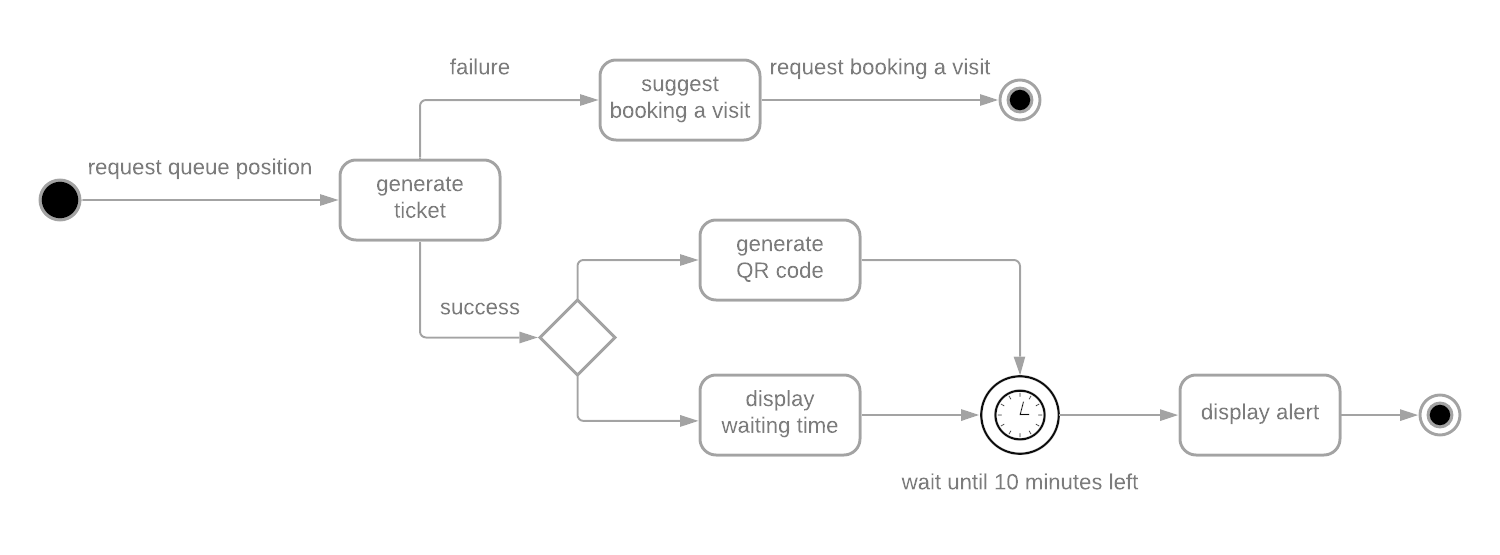
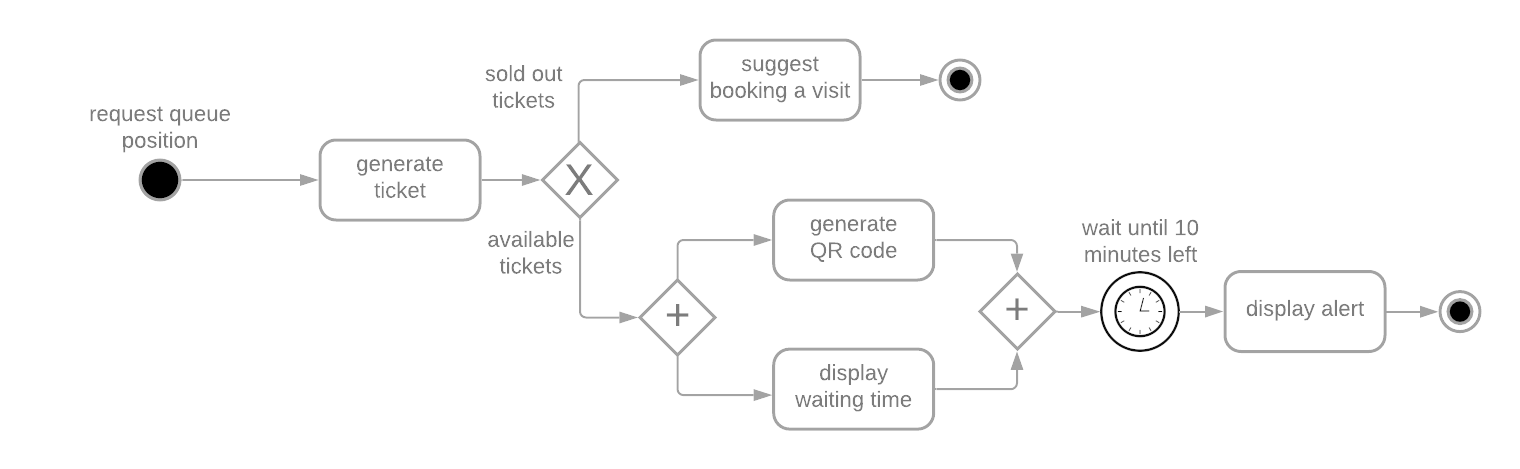
added sequence diagrams

diff --git a/RASD/rasd.tex b/RASD/rasd.tex
@@ -167,7 +167,7 @@ The main objectives of our system are the following:
     \item \textbf{Notification:} it's an alert that a certain event occurred. This alert can be a "Push Notification" on the smartphone, an SMS, an email and so on.
     \item \textbf{Push notification:} it's an automated message sent by an application to a user when the application is not running.
     \item \textbf{Actor:} user, attendant or store administrator.
-    \item \textbf{Man in the Middle:} it is a cyberattack where the attacker secretly relays and possibly alters the communications between two parties who believe that they are directly communicating with each other.
+    \item \textbf{Man in the Middle:} it is a cyber attack where the attacker secretly relays and possibly alters the communications between two parties who believe that they are directly communicating with each other.
 \end{itemize}
 \subsubsection{Acronyms}
 \begin{itemize}
@@ -244,50 +244,52 @@ Each person interested in using the system described in this document to line up
 The basic requirement is to have an Internet browser installed on the used device.
 There is then the possibility of downloading and installing the official CLup application from the most important stores, like Apple's \textit{App Store} or Android's \textit{Play Store}.
 
-Shops, instead, should have some devices connected to the service (through web interface or application) in order to monitor queue length, entrances, generate ticket on the spot and, if needed, anticipately close the booking sessions.
+Shops, instead, should have some devices connected to the service (through web interface or application) in order to monitor queue length, entrances, generate ticket on the spot and, if needed, close the booking sessions in advance.
 
 \newpage
 \subsection{Product Functions}
 \label{product_functions}
 
-<<<<<<< HEAD
 \subsubsection{ASAP: As Soon As Possible}
 
 This functionality is accessible to all \textbf{Users} (\ref{User}). The user clicks a button and the system tries to generate the first available ticket for the current day's queue; if the generation fails the system suggests them to book a future visit.
-=======
-\subsubsection{Line-up}
-\label{line_up}
-This functionality is accessible to all \textbf{Users} (\ref{User}). The application provides all available slots during the current day and, if the user chooses an unavailable slot, the system suggests them to book a future visit instead.
->>>>>>> a5f1692bbf35015c73cb181eb7af0cbc24bb97fa
 Alternatively, the ticket is generated alongside a QR code identifying uniquely users and their queue number. The waiting time is shown to the user until it reaches the last 10 minutes marker alerting them to approach the store.
 \begin{figure}[!htb]
     \begin{center}
-        \includegraphics[scale=0.29]{assets/function-line-up.png}
+        \includegraphics[scale=0.6]{assets/function-line-up.png}
         \caption{BPMN diagram line-up method}
     \end{center}
 \end{figure}
 
 \subsubsection{Make a reservation}
 \label{book_a_visit}
-This functionality is available to every \textbf{User} (\ref{User}). The user accesses the booking through the menu and teh application displays a calendar with all available slots. Alongside this the system suggests               requests a new booking, the system displays all available slots. The service identifies as available a slot with the following requisites: it must be within the capacity allowed by the shop and must include a limited number of customers in order to balance the daily flow to the facility. If the slot is available the user is taken to the last step discussed later on, otherwise the application suggests different results based on the user's choice. They can filter results with the same time of the previous one and be suggested with alternative stores of the same chain or different one; if the user decides otherwise, the system displays alternative days/time slots analyzed from the customer's previous data.
-The last step is the optional filling of an hypothetical shopping list and the final confirmation.
+This functionality is available to every \textbf{User} (\ref{User}). The user accesses the booking through the menu and the application displays a calendar with all available slots. Alongside this, the system suggests a new booking including various choices: different time slots of the same day, different days, different stores or different chains (if the application is used by different ones). The alternatives are generated through previous data (if exists) or in order to balance the flow to the facilities. After the selection, the reservation is booked and the user is asked to create a shopping list. Finally duration time is generated from previous data, otherwise is inserted by the user.
 \begin{figure}[!htb]
     \begin{center}
-        \includegraphics[scale=0.2]{assets/function-book-a-visit.png}
+        \includegraphics[scale=0.4]{assets/function-book-a-visit.png}
         \caption{BPMN diagram booking method}
     \end{center}
 \end{figure}
-
+\newpage
 \subsubsection{Hand out tickets on spot}
 
-This functionality is reserved only for staff members. The customer reaches the supermarket/grocery shop and asks the staff to be queued up. The personnel accesses the system which interacts with the database and generates a ticket, granting the customer a spot in the queue.
+This functionality is reserved only for staff members. The customer reaches the supermarket/grocery shop and asks the staff to be queued up. The personnel accesses the system which interacts with the database and generates a ticket, granting the customer a position in the queue.
 \begin{figure}[!htb]
     \begin{center}
-        \includegraphics[scale=0.5]{assets/function-hand-up.png}
+        \includegraphics[scale=0.8]{assets/function-hand-up.png}
         \caption{BPMN diagram site method}
     \end{center}
 \end{figure}
 
+\subsubsection{Periodic notifications}
+The application occasionally sends notifications to the user with available slots. If the user accepts, they follow the same procedure of the \textit{Make a reservation (\ref{book_a_visit})}.
+\begin{figure}[!htb]
+    \begin{center}
+        \includegraphics[scale=0.7]{assets/periodic-notifications.png}
+        \caption{BPMN diagram site method}
+    \end{center}
+\end{figure}
+\newpage
 \subsection{Actors}
 \subsubsection{User}
 It's a customer, i.e. a normal person who intend to go to the grocery shop. It is able to use the smartphone application or surf on its website. It uses the service in order to access the stores, according to the regulations. It takes advantage in using the application since, when it want to access a store, it retrieves the unique number and can wait from a close and safe building.
